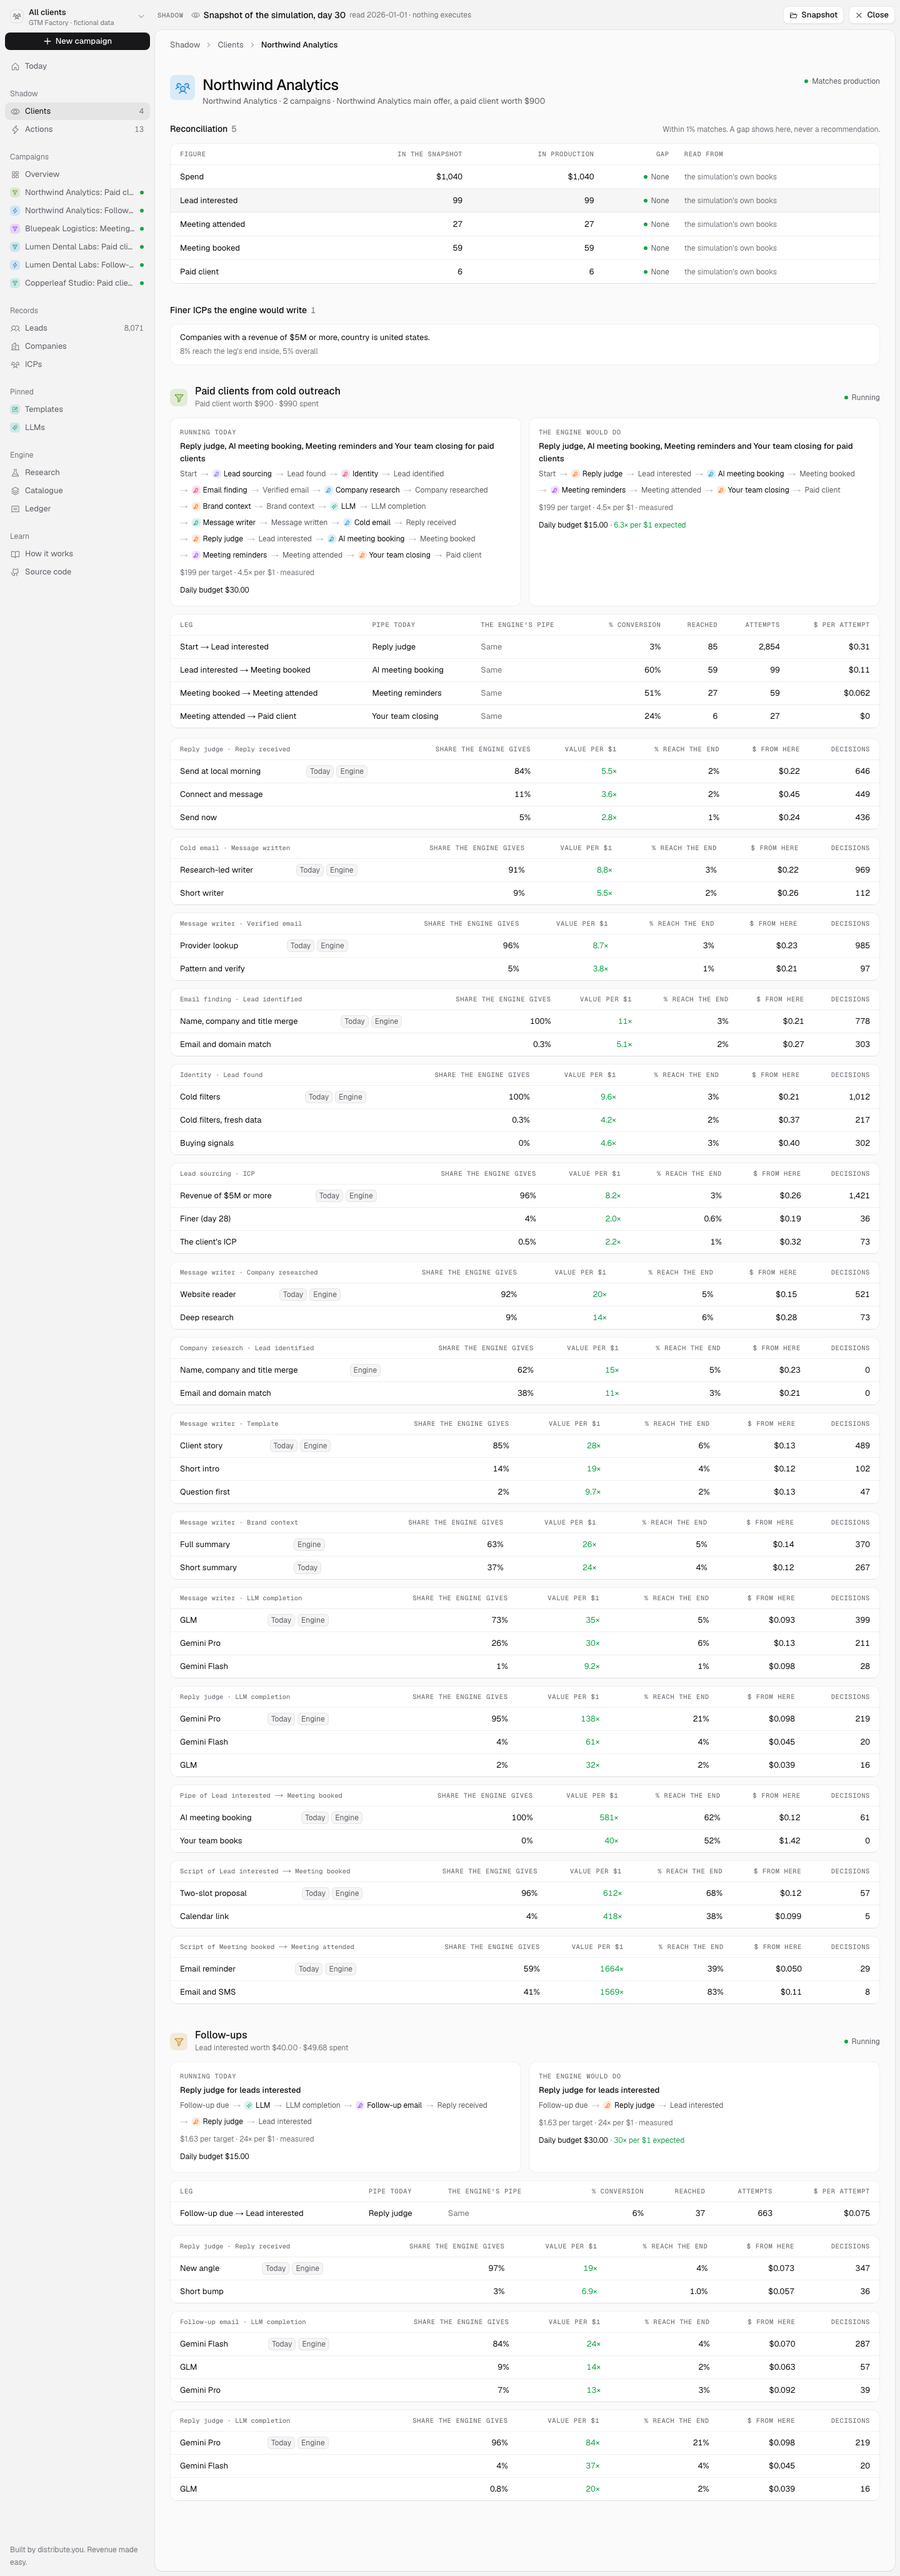
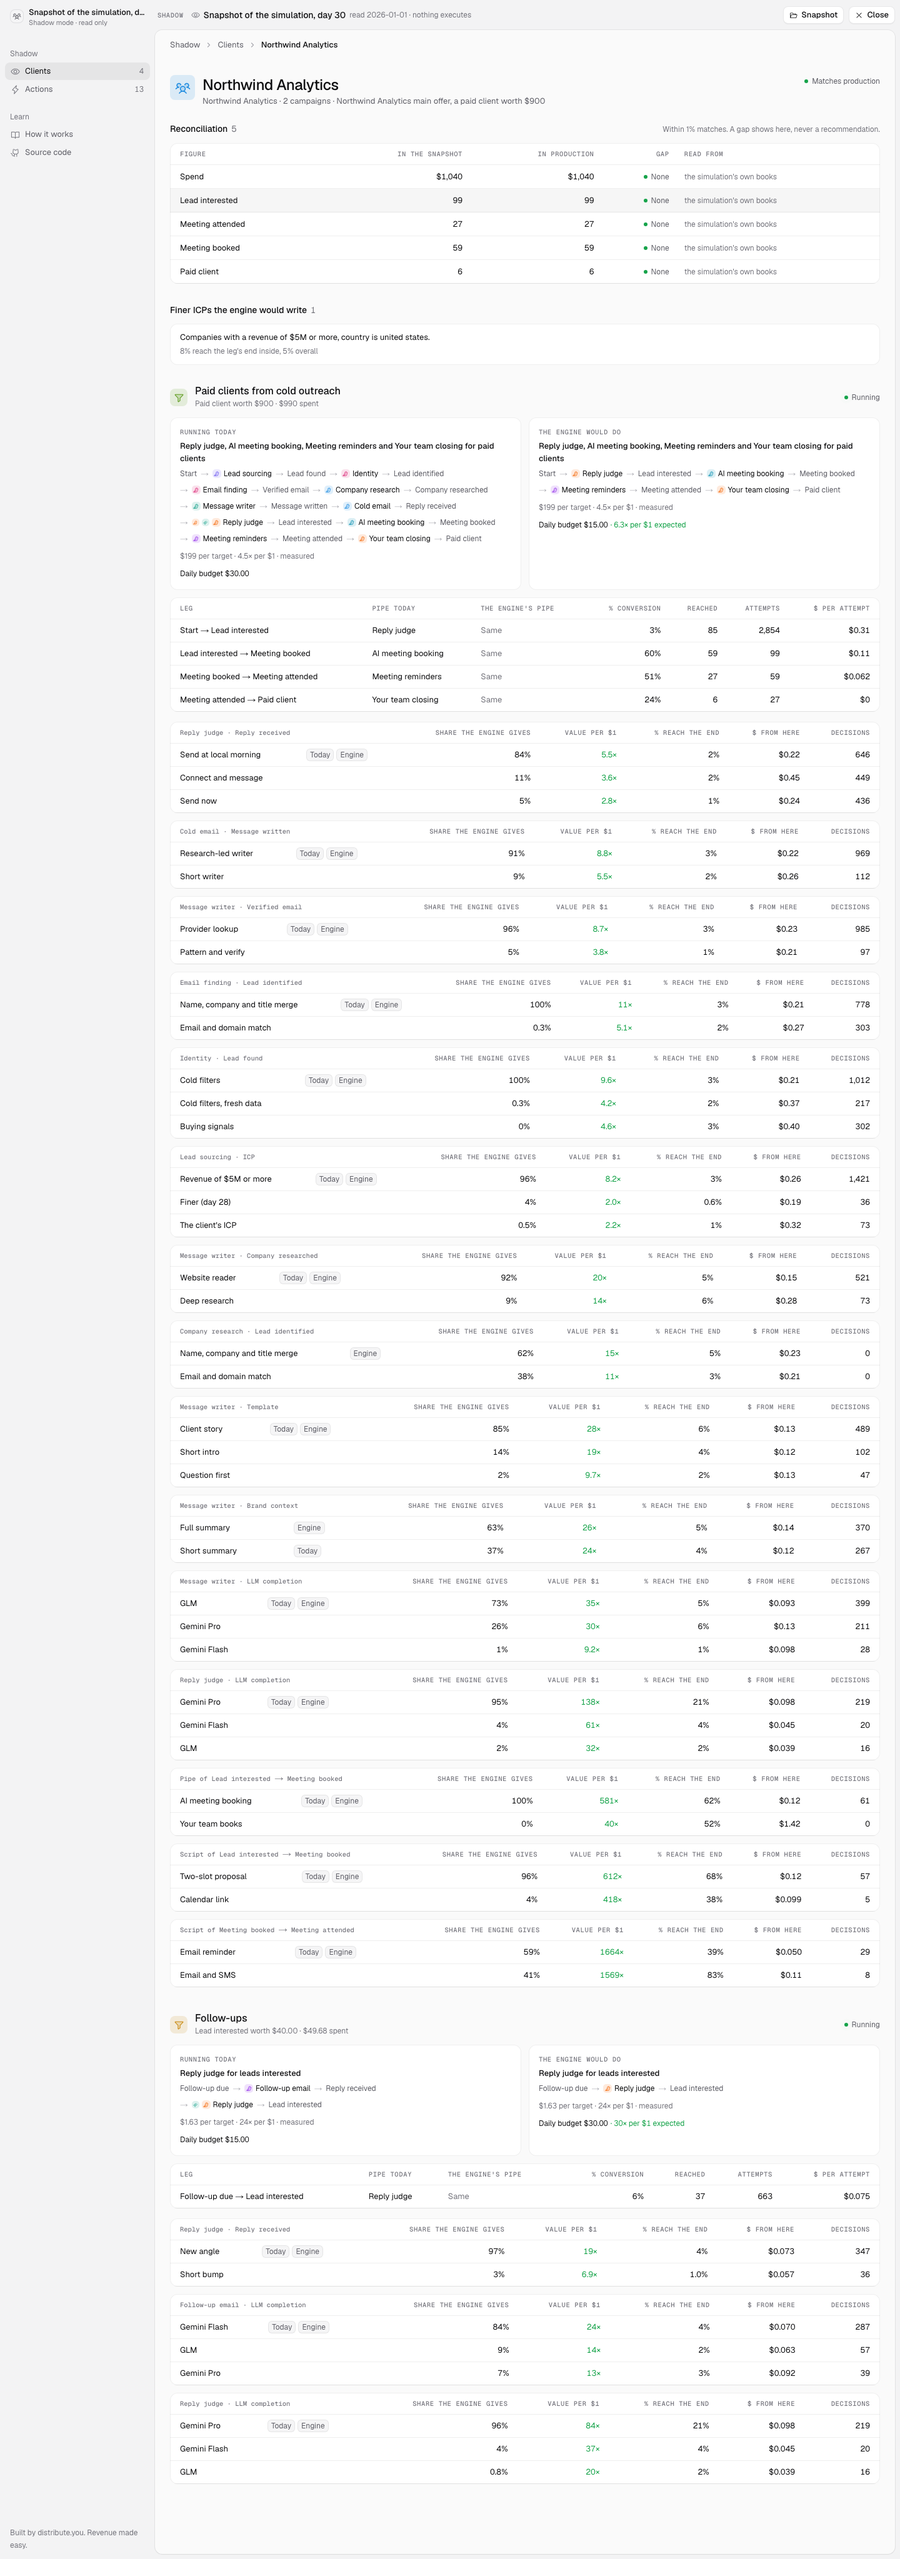
feat(dashboard): shadow mode shows only its own pages; a funnel with no spend of ours says so

diff --git a/apps/dashboard/src/components/shell.tsx b/apps/dashboard/src/components/shell.tsx
@@ -99,6 +99,7 @@ function Sidebar() {
   const pathname = usePathname() ?? "/";
   const search = useSearchParams();
   const { model, scope, pins } = useSim();
+  const { shadow } = useShadow();
   const at = (p: string) => pathname === p || pathname === `${p}/`;
   const campaigns = model ? model.campaigns.filter((c) => !scope || c.brandId === scope) : [];
   const campaignId = search.get("id");
@@ -107,65 +108,81 @@ function Sidebar() {
   const audience = model?.catalogue.outcomes.find((o) => o.contentType === "audience" && !o.retired);
   return (
     <aside className="flex h-full w-[248px] max-w-[85vw] shrink-0 flex-col">
-      <div className="space-y-2 px-2 pt-2">
-        <ScopeSwitcher />
-        <Link href="/campaigns/new/" className="k-btn-strong w-full justify-center">
-          <PlusIcon size={14} weight="bold" />
-          New campaign
-        </Link>
-      </div>
-      <nav className="k-scroll min-h-0 flex-1 overflow-y-auto px-2 pb-3 pt-3">
-        <div className="space-y-px">
-          <NavItem href="/" label="Today" icon={<HouseIcon size={15} />} active={at("/")} />
+      {shadow ? (
+        <div className="px-2 pt-2">
+          <div className="flex h-9 items-center gap-2 px-2">
+            <Mark kind="audience" id="shadow" size={22} quiet />
+            <span className="min-w-0 flex-1">
+              <span className="block truncate text-[13px] font-medium">{shadow.snapshot.name}</span>
+              <span className="k-fg3 block truncate text-[11px] leading-3">Shadow mode · read only</span>
+            </span>
+          </div>
         </div>
+      ) : (
+        <div className="space-y-2 px-2 pt-2">
+          <ScopeSwitcher />
+          <Link href="/campaigns/new/" className="k-btn-strong w-full justify-center">
+            <PlusIcon size={14} weight="bold" />
+            New campaign
+          </Link>
+        </div>
+      )}
+      <nav className="k-scroll min-h-0 flex-1 overflow-y-auto px-2 pb-3 pt-3">
         <ShadowNav at={at} />
-        <Group title="Campaigns">
-          <NavItem href="/campaigns/" label="Overview" icon={<SquaresFourIcon size={15} />} active={at("/campaigns")} />
-          {model &&
-            campaigns.map((c) => {
-              const active = pathname.startsWith("/campaigns/view") && campaignId === c.id;
-              const brand = model.clients.find((x) => x.brand.id === c.brandId)?.brand.name ?? "";
-              return (
-                <NavItem
-                  key={c.id}
-                  href={`/campaigns/view/?id=${encodeURIComponent(c.id)}`}
-                  label={scope ? c.name : `${brand}: ${c.name}`}
-                  icon={c.entry.kind === "trigger" ? <Mark kind="trigger" id={c.entry.triggerId} size={16} /> : <Mark kind="funnel" id={c.id} size={16} />}
-                  active={active}
-                  trailing={
-                    c.status === "running" ? (
-                      <span className="k-dot-pulse ml-auto mr-1 h-1.5 w-1.5 shrink-0 rounded-full bg-[var(--run)] text-[var(--run)]" aria-label="Running" />
-                    ) : (
-                      <span className="ml-auto mr-1 h-2 w-2 shrink-0 rounded-full border-[1.5px] border-[var(--fg-3)]" aria-label="Paused" />
-                    )
-                  }
-                />
-              );
-            })}
-        </Group>
-        <Group title="Records">
-          <NavItem href="/leads/" label="Leads" icon={<UsersIcon size={15} />} active={at("/leads") || pathname.startsWith("/leads/view")} trailing={<Count n={leadsInScope} />} />
-          <NavItem href="/companies/" label="Companies" icon={<BuildingsIcon size={15} />} active={at("/companies")} />
-          {audience && <NavItem href="/audiences/" label={audience.plural ?? audience.label} icon={<UsersThreeIcon size={15} />} active={at("/audiences")} />}
-        </Group>
-        {pins.length > 0 && (
-          <Group title="Pinned">
-            {pins.map((p) => (
-              <NavItem
-                key={pinKey(p)}
-                href={pinHref(p)}
-                label={p.label}
-                icon={<Mark kind={p.kind === "outcome" ? "object" : p.kind} id={p.id} icon={p.icon} size={16} />}
-                active={pathname.startsWith("/pinned") && pinned === pinKey(p)}
-              />
-            ))}
-          </Group>
+        {!shadow && (
+          <>
+            <div className="space-y-px">
+              <NavItem href="/" label="Today" icon={<HouseIcon size={15} />} active={at("/")} />
+            </div>
+            <Group title="Campaigns">
+              <NavItem href="/campaigns/" label="Overview" icon={<SquaresFourIcon size={15} />} active={at("/campaigns")} />
+              {model &&
+                campaigns.map((c) => {
+                  const active = pathname.startsWith("/campaigns/view") && campaignId === c.id;
+                  const brand = model.clients.find((x) => x.brand.id === c.brandId)?.brand.name ?? "";
+                  return (
+                    <NavItem
+                      key={c.id}
+                      href={`/campaigns/view/?id=${encodeURIComponent(c.id)}`}
+                      label={scope ? c.name : `${brand}: ${c.name}`}
+                      icon={c.entry.kind === "trigger" ? <Mark kind="trigger" id={c.entry.triggerId} size={16} /> : <Mark kind="funnel" id={c.id} size={16} />}
+                      active={active}
+                      trailing={
+                        c.status === "running" ? (
+                          <span className="k-dot-pulse ml-auto mr-1 h-1.5 w-1.5 shrink-0 rounded-full bg-[var(--run)] text-[var(--run)]" aria-label="Running" />
+                        ) : (
+                          <span className="ml-auto mr-1 h-2 w-2 shrink-0 rounded-full border-[1.5px] border-[var(--fg-3)]" aria-label="Paused" />
+                        )
+                      }
+                    />
+                  );
+                })}
+            </Group>
+            <Group title="Records">
+              <NavItem href="/leads/" label="Leads" icon={<UsersIcon size={15} />} active={at("/leads") || pathname.startsWith("/leads/view")} trailing={<Count n={leadsInScope} />} />
+              <NavItem href="/companies/" label="Companies" icon={<BuildingsIcon size={15} />} active={at("/companies")} />
+              {audience && <NavItem href="/audiences/" label={audience.plural ?? audience.label} icon={<UsersThreeIcon size={15} />} active={at("/audiences")} />}
+            </Group>
+            {pins.length > 0 && (
+              <Group title="Pinned">
+                {pins.map((p) => (
+                  <NavItem
+                    key={pinKey(p)}
+                    href={pinHref(p)}
+                    label={p.label}
+                    icon={<Mark kind={p.kind === "outcome" ? "object" : p.kind} id={p.id} icon={p.icon} size={16} />}
+                    active={pathname.startsWith("/pinned") && pinned === pinKey(p)}
+                  />
+                ))}
+              </Group>
+            )}
+            <Group title="Engine">
+              <NavItem href="/research/" label="Research" icon={<FlaskIcon size={15} />} active={at("/research")} />
+              <NavItem href="/catalogue/" label="Catalogue" icon={<StackIcon size={15} />} active={at("/catalogue")} />
+              <NavItem href="/ledger/" label="Ledger" icon={<ReceiptIcon size={15} />} active={at("/ledger")} />
+            </Group>
+          </>
         )}
-        <Group title="Engine">
-          <NavItem href="/research/" label="Research" icon={<FlaskIcon size={15} />} active={at("/research")} />
-          <NavItem href="/catalogue/" label="Catalogue" icon={<StackIcon size={15} />} active={at("/catalogue")} />
-          <NavItem href="/ledger/" label="Ledger" icon={<ReceiptIcon size={15} />} active={at("/ledger")} />
-        </Group>
         <Group title="Learn">
           <NavItem href="/how-it-works/" label="How it works" icon={<BookOpenIcon size={15} />} active={at("/how-it-works")} />
           <a href={REPO_URL} target="_blank" rel="noreferrer" className="flex h-7 items-center gap-2 rounded-[8px] pl-2 pr-1.5 text-[13px] text-[var(--fg-2)] hover:bg-[var(--bg-hover)] hover:text-[var(--fg-1)]">

diff --git a/apps/dashboard/src/components/pages/shadow.tsx b/apps/dashboard/src/components/pages/shadow.tsx
@@ -310,6 +310,7 @@ function Line({ s, entry, legs }: { s: ShadowState; entry: string; legs: { to: s
 
 function funnelFigures(f: RankedFunnel | null): string {
   if (!f) return "Not measured on every leg yet";
+  if (!(f.costPerTarget > 0)) return `No spend of ours on its legs: every leg is another factory's (the client's team) · ${f.label}`;
   return `${formatUsd(f.costPerTarget)} per target · ${formatRoi(f.valuePerDollar)} per $1 · ${f.label}`;
 }
 

diff --git a/apps/dashboard/next.config.ts b/apps/dashboard/next.config.ts
@@ -9,6 +9,7 @@ const config: NextConfig = {
   basePath,
   trailingSlash: true,
   images: { unoptimized: true },
+  devIndicators: false,
   transpilePackages: ["@gtm-factory/engine"],
   turbopack: { root: path.join(import.meta.dirname, "../..") },
   outputFileTracingRoot: path.join(import.meta.dirname, "../.."),

diff --git a/apps/dashboard/AGENTS.md b/apps/dashboard/AGENTS.md
@@ -1,0 +1,9 @@
+<!-- BEGIN:nextjs-agent-rules -->
+
+## This is NOT the Next.js you know
+
+This version has breaking changes — APIs, conventions, and file structure may all differ from your training data. Read the relevant guide in `node_modules/next/dist/docs/` (resolved from this file's directory; in monorepos the `next` package may not be visible from the repo root) before writing any code. Heed deprecation notices.
+
+This block is written and re-added by `next dev` — verify at `node_modules/next/dist/server/lib/generate-agent-files.js`. Removing it from a diff only re-creates the uncommitted change; committing it with your work keeps the tree clean.
+
+<!-- END:nextjs-agent-rules -->
